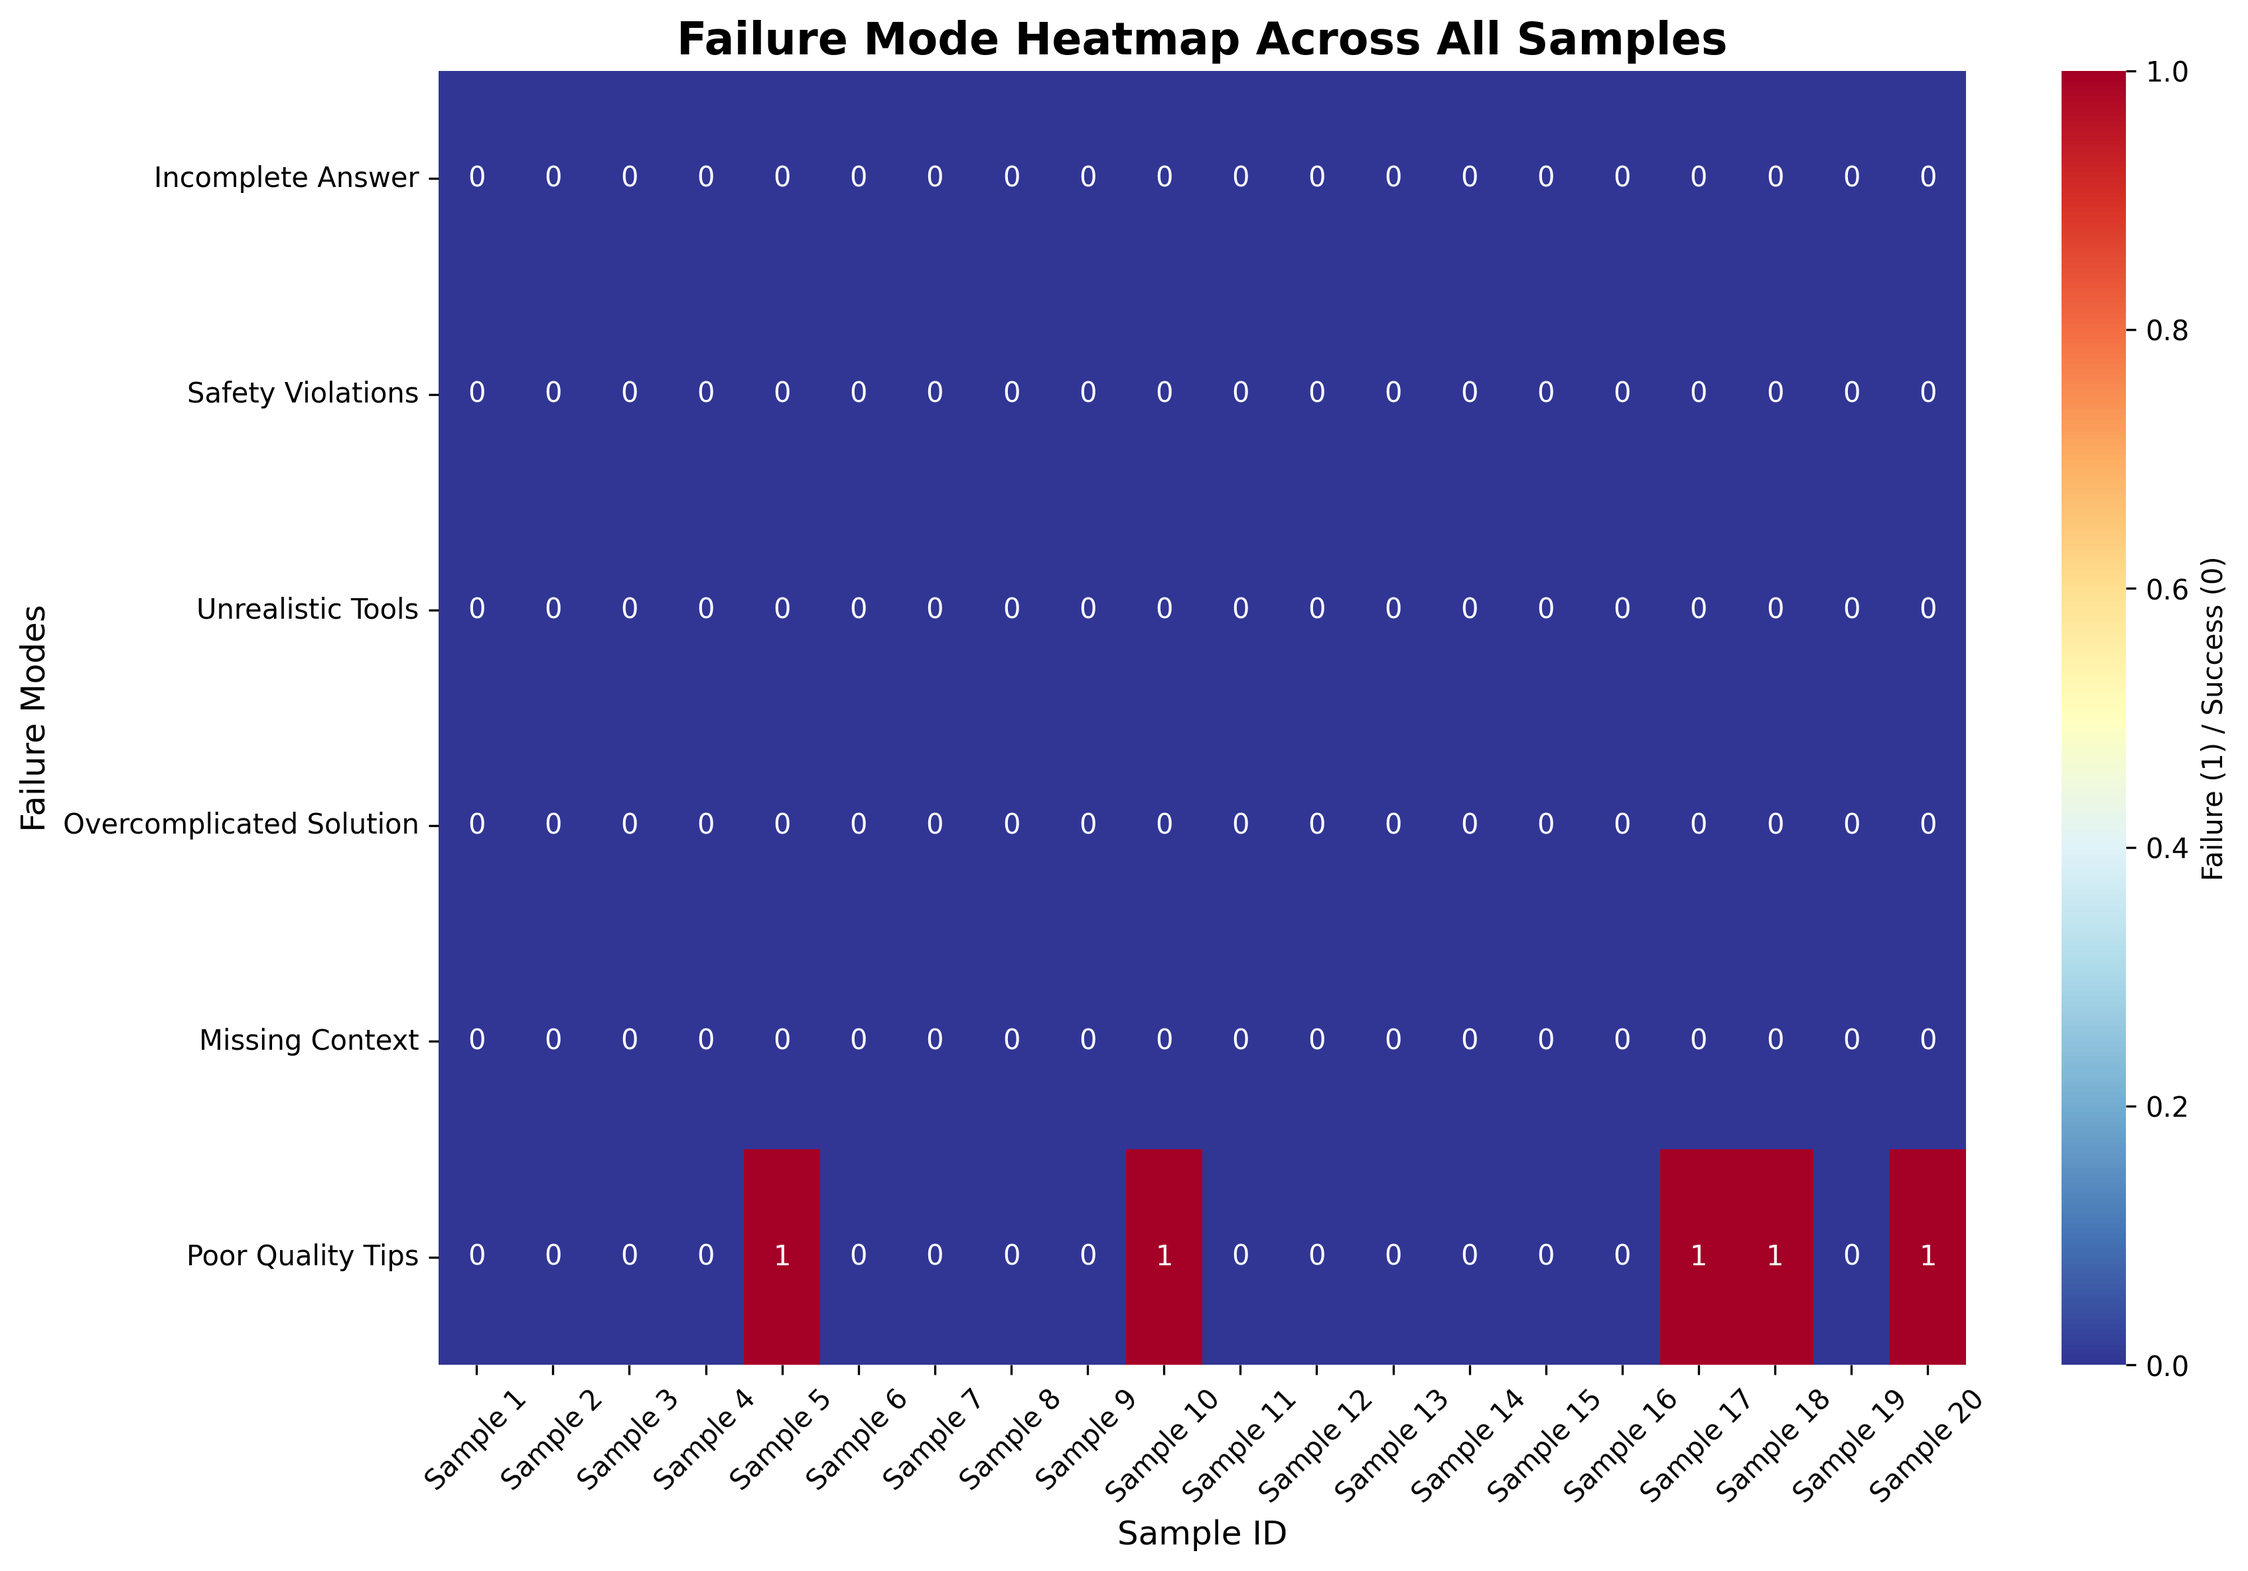
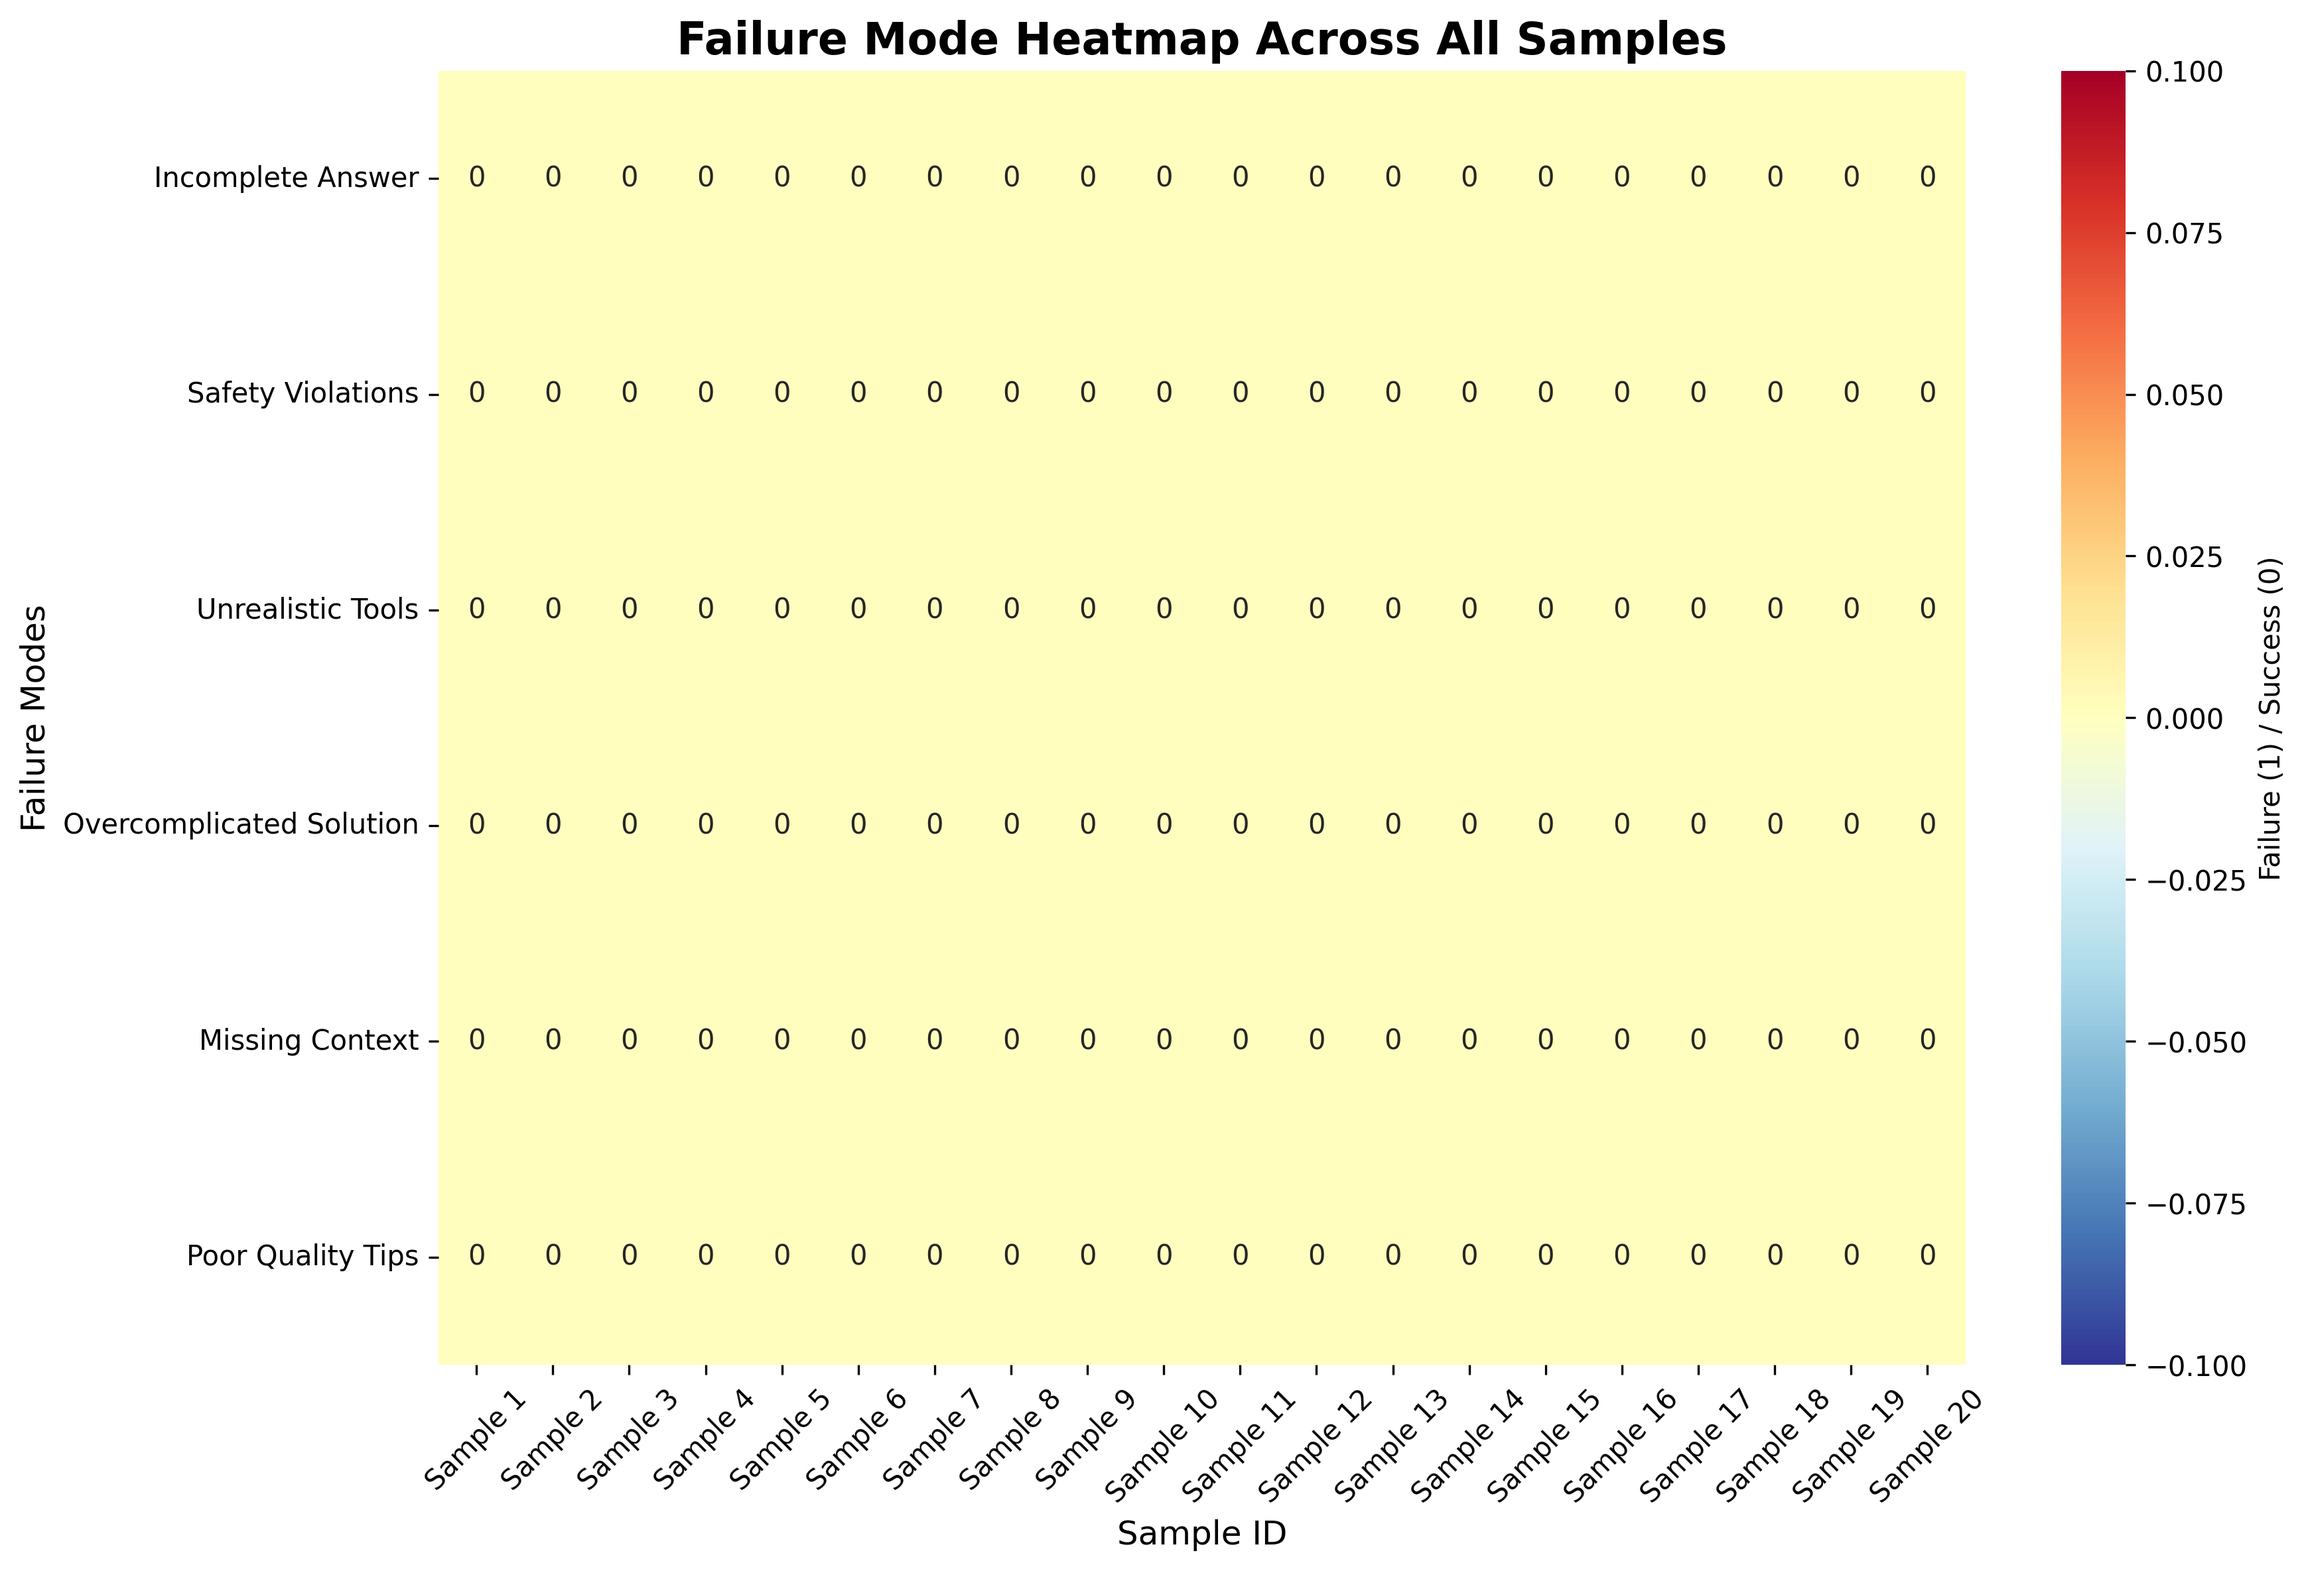
Re-run failure analysis phase

diff --git a/README.md b/README.md
@@ -235,3 +235,13 @@ Recommendations:
 
 1. Focus on improving 'poor quality tips' - it's the most common failure mode (25.0% failure rate)
 2. 75.0% of samples have no failures - analyze these for best practices
+
+Goals:
+
+1. Increase overall success rate > 90%.
+
+### Iteration 4 (Final)
+
+* Total samples: 20
+* Overall Success Rate: 100.0%
+* Overall Failure Rate: 0.0%
